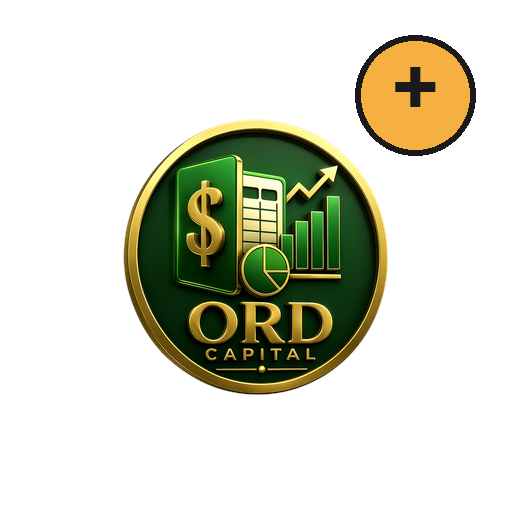
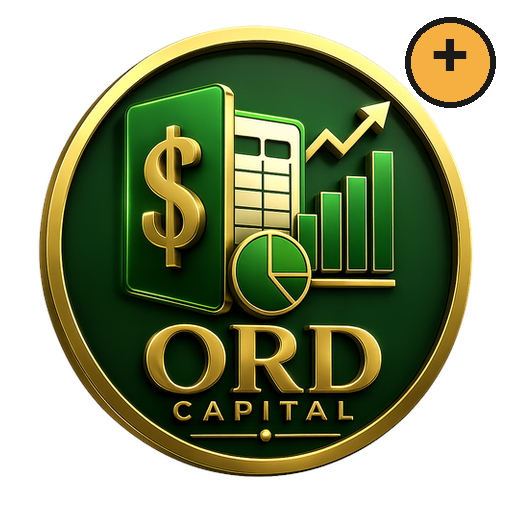
subida a produccion last

diff --git a/public/sw.js b/public/sw.js
@@ -2,7 +2,7 @@
 // Plantilla del Service Worker. El script scripts/build-sw.js genera
 // public/sw.js. No editar public/sw.js a mano: se sobreescribe.
 
-const CACHE_NAME = 'ord-capital-c469cfc-1785537772171';
+const CACHE_NAME = 'ord-capital-bfac608-1785539913329';
 const ASSETS_TO_CACHE = [
   '/',
   '/index.html',

diff --git a/scripts/generate_png_icons.py b/scripts/generate_png_icons.py
@@ -45,15 +45,16 @@ def create_shortcut_icon():
     base_logo = os.path.join(os.path.dirname(__file__), '../public/icono_logo.png')
     canvas = Image.new('RGBA', (512, 512), (255, 255, 255, 255))
     if os.path.exists(base_logo):
-        logo = Image.open(base_logo).convert('RGBA').resize((300, 300), Image.Resampling.LANCZOS)
-        canvas.paste(logo, (106, 110), logo)
+        # 96% of 512px canvas = 492px
+        logo = Image.open(base_logo).convert('RGBA').resize((492, 492), Image.Resampling.LANCZOS)
+        canvas.paste(logo, (10, 10), logo)
     
     draw = ImageDraw.Draw(canvas)
-    badge_box = [355, 35, 475, 155]
+    badge_box = [405, 17, 495, 107]
     draw.ellipse(badge_box, fill=(245, 176, 65, 255), outline=(26, 26, 26, 255), width=6)
     
     try:
-        font = ImageFont.truetype('arialbd.ttf', 80)
+        font = ImageFont.truetype('arialbd.ttf', 65)
     except Exception:
         font = ImageFont.load_default()
         
@@ -62,9 +63,9 @@ def create_shortcut_icon():
     w_text = bbox[2] - bbox[0]
     h_text = bbox[3] - bbox[1]
     
-    cx, cy = 415, 95
+    cx, cy = 450, 62
     x_text = cx - w_text / 2 - bbox[0]
-    y_text = cy - h_text / 2 - bbox[1] - 4
+    y_text = cy - h_text / 2 - bbox[1] - 3
     
     draw.text((x_text, y_text), text, fill=(26, 26, 26, 255), font=font)
     
@@ -73,7 +74,10 @@ def create_shortcut_icon():
     canvas.save(out_path, 'PNG')
     if os.path.exists(os.path.dirname(dist_path)):
         canvas.save(dist_path, 'PNG')
-    print(f"Generated icon-shortcut-add.png (512x512) with top-right + badge at {out_path}")
+    print(f"Generated icon-shortcut-add.png (512x512) with 96% logo and top-right + badge at {out_path}")
+
+
+
 
 create_shortcut_icon()
 
